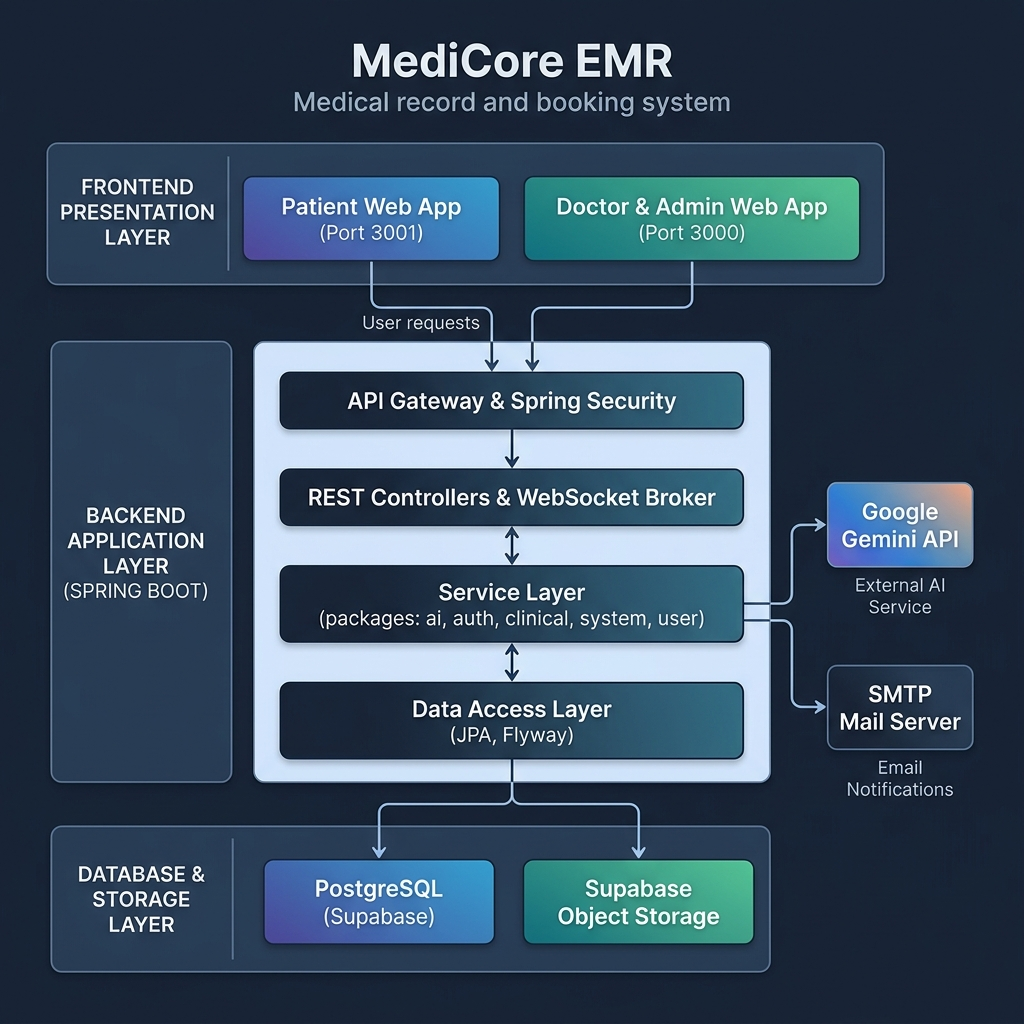
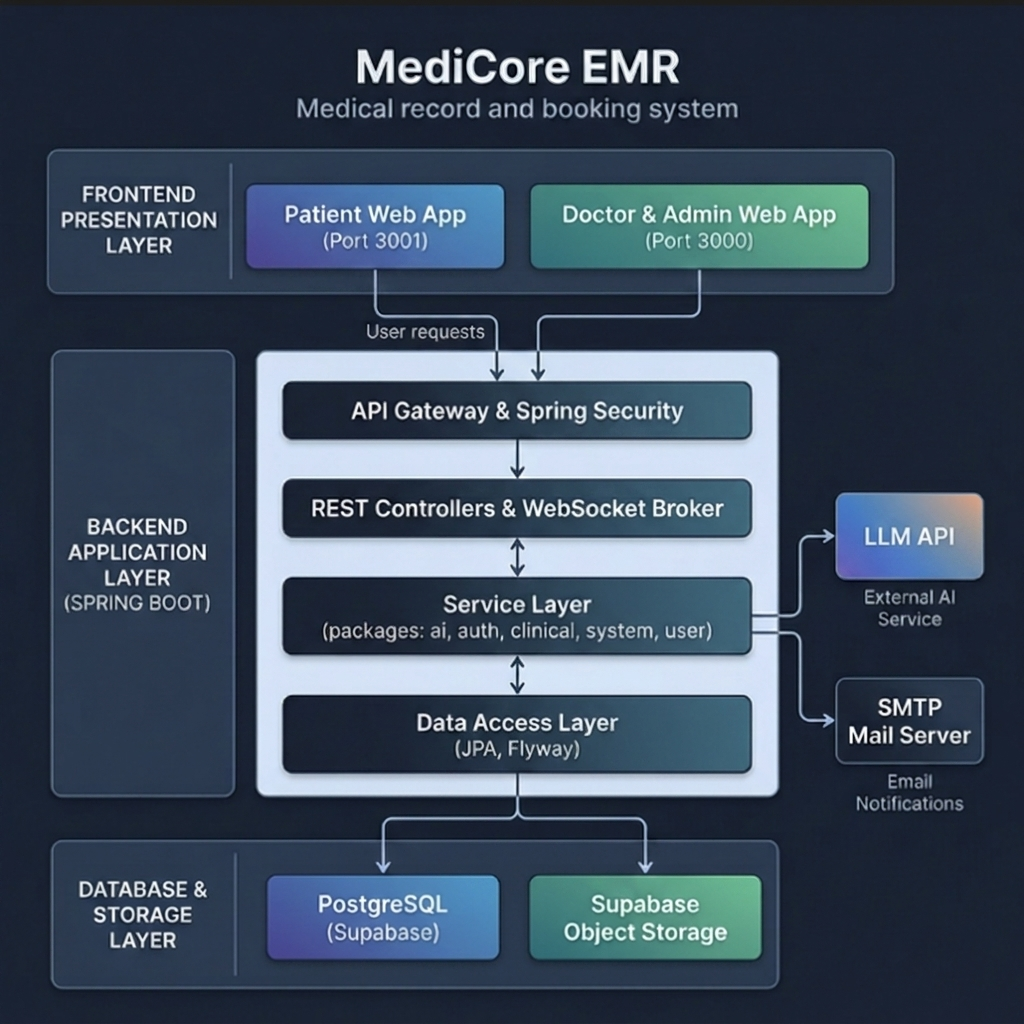
docs: update architecture diagram and refine websocket config

Changed region(s): [[0.0312, 0.0312, 0.9688, 0.9688]]

diff --git a/code/backend/src/main/java/com/medicore/config/websocket/WebSocketConfig.java b/code/backend/src/main/java/com/medicore/config/websocket/WebSocketConfig.java
@@ -1,4 +1,5 @@
 package com.medicore.config.websocket;
+
 import com.medicore.config.security.JwtTokenProvider;
 
 import com.medicore.common.constants.ErrorCodes;
@@ -38,7 +39,7 @@ public class WebSocketConfig implements WebSocketMessageBrokerConfigurer {
 
     @Override
     public void configureMessageBroker(MessageBrokerRegistry config) {
-        // CHỈ ĐỂ topic và queue ở đây thôi bạn nhé
+        // CHỈ ĐỂ topic và queue ở đây
         config.enableSimpleBroker("/topic", "/queue");
 
         config.setApplicationDestinationPrefixes("/app");

diff --git a/docs/architecture-diagram.md b/docs/architecture-diagram.md
@@ -65,7 +65,7 @@ graph TB
 
     %% Các dịch vụ tích hợp bên ngoài
     subgraph ExternalServices ["Dịch vụ bên ngoài"]
-        GeminiAPI["Google Gemini API (LLM)"]
+        LLMAPI["Dịch vụ LLM API (LLM)"]
         SMTPServer["SMTP Server (Gửi Email)"]
     end
 
@@ -99,7 +99,7 @@ graph TB
     UserServices --> AuthServices
     
     %% Service -> Kết nối bên ngoài
-    AIServices --> GeminiAPI
+    AIServices --> LLMAPI
     AuthServices --> SMTPServer
     
     %% Lớp Service -> Repository
@@ -127,7 +127,7 @@ graph TB
     class Patient,Doctor,Admin actorStyle;
     class PatientApp,DocAdminApp frontStyle;
     class CORS,SpringSec,JwtFilter,AuthController,ClinicalController,DoctorController,SpecialtyController,WSController,AuthServices,ClinicalServices,UserServices,AIServices,SystemServices,JPA,JDBC,Flyway backStyle;
-    class GeminiAPI,SMTPServer extStyle;
+    class LLMAPI,SMTPServer extStyle;
     class Postgres,SupabaseStorage dbStyle;
 ```
 
@@ -135,36 +135,11 @@ graph TB
 
 ## 2. Chi tiết các thành phần trong Kiến trúc
 
-### 2.1. Lớp Trình diễn (Frontend Presentation Layer)
-Được viết bằng **Next.js (App Router)** và **TypeScript**, bao gồm hai ứng dụng riêng biệt chạy trên các cổng khác nhau:
-*   **Patient Web App (Port 3001):** Dành riêng cho bệnh nhân. Cho phép đăng ký/đăng nhập, tìm kiếm bác sĩ, chuyên khoa, đặt lịch khám, theo dõi hàng chờ thời gian thực và xem lại lịch sử bệnh án (`/clinical/medical-records/me`).
-*   **Doctor & Admin Dashboard (Port 3000):** Dành cho bác sĩ và quản trị viên.
-    *   *Bác sĩ:* Quản lý hàng chờ bệnh nhân, tiến hành khám bệnh, nhập kết quả bệnh án, kê đơn thuốc và tải xuống file PDF bệnh án.
-    *   *Quản trị viên:* Cấu hình thông tin bác sĩ, chuyên khoa, quản lý tài khoản và giám sát toàn bộ hệ thống.
-
-### 2.2. Lớp Ứng dụng (Backend Application Layer)
-Được xây dựng trên **Spring Boot 3.3.4** và **Java 21**, vận hành theo cấu trúc phân lớp truyền thống:
-1.  **Cổng Bảo mật (Spring Security & JWT):**
-    *   `CORS Filter`: Cấu hình cho phép các nguồn gốc (Origins) xác định truy cập API, hỗ trợ đầy đủ các phương thức HTTP bao gồm `GET`, `POST`, `PUT`, `PATCH`, `DELETE`, `OPTIONS`.
-    *   `JwtAuthenticationFilter`: Chặn và xác thực JWT token từ Header `Authorization` (Bearer token) của request gửi lên.
-    *   `Spring Security`: Áp dụng phân quyền phân vai trò (Role-Based Access Control) chặt chẽ bằng cách sử dụng `@PreAuthorize` hoặc cấu hình các requestMatchers (`ADMIN`, `DOCTOR`, `PATIENT`).
-2.  **Lớp Controller (REST APIs & WebSocket Message Broker):**
-    *   Cung cấp các API RESTful định dạng JSON.
-    *   Tích hợp WebSocket Broker qua giao thức **STOMP (SockJS)** phục vụ cập nhật trạng thái lịch hẹn khám và cập nhật số thứ tự xếp hàng thời gian thực.
-3.  **Lớp Service (Business Logic):**
-    *   `AuthService`: Xử lý đăng ký, đăng nhập, và tạo JWT.
-    *   `Clinical & Medical Record Service`: Logic quản lý lịch sử khám bệnh, ghi nhận kết quả và chẩn đoán.
-    *   `Queue Service`: Quản lý logic hàng chờ gọi số của bệnh nhân tại các phòng khám.
-    *   `MedicalRecordPdfService`: Kết xuất đơn thuốc và hồ sơ bệnh án sang PDF thông qua thư viện OpenPDF/iText.
-    *   `AIService`: Điều phối việc gọi mô hình ngôn ngữ lớn (Gemini API) thông qua WebClient để phân tích chẩn đoán hỗ trợ bác sĩ và lưu vết (`DoctorAiConsultationLog`).
-4.  **Lớp Repository (Data Access Layer):**
-    *   Sử dụng **Spring Data JPA** để ánh xạ thực thể (ORM - Hibernate) giúp thao tác với cơ sở dữ liệu nhanh chóng.
-    *   Dùng **JDBC Template** cho các truy vấn tối ưu hiệu năng hoặc tự động sinh mã định danh có định dạng phức tạp (như `DOC-yyyy-xxxx` hay `PAT-yyyy-xxxx`).
-    *   Tích hợp **Flyway Migration** để tự động chạy các script cập nhật cấu trúc bảng (schema) đồng bộ giữa các môi trường.
-
-### 2.3. Lớp Dữ liệu & Lưu trữ (Data & Storage Layer)
-*   **PostgreSQL (Supabase):** Hệ quản trị cơ sở dữ liệu chính. Lưu trữ toàn bộ dữ liệu quan hệ (Người dùng, Bác sĩ, Chuyên khoa, Lịch hẹn, Bệnh án, Đơn thuốc).
-*   **Supabase Storage:** Dịch vụ Object Storage tích hợp của Supabase, dùng để lưu trữ các tệp tin đính kèm như hình ảnh chụp chiếu (X-Ray, siêu âm) và các file PDF kết quả khám bệnh đã được kết xuất.
+*   **Tầng 1 - Frontend Presentation Layer (Giao diện):** Chúng em tách biệt hoàn toàn thành 2 ứng dụng độc lập: Patient Web App (chạy trên Port 3001) dành cho bệnh nhân và Doctor & Admin Web App (chạy trên Port 3000) phục vụ nội bộ. Sự tách biệt này giúp tối ưu trải nghiệm người dùng và dễ dàng mở rộng (scale) độc lập sau này.
+*   **Tầng 2 - Backend Application Layer (Xử lý logic):** Sử dụng Spring Boot làm nhân cốt lõi để xử lý các User requests. Luồng yêu cầu đi qua API Gateway, được bảo mật chặt chẽ bởi Spring Security và xác thực qua cơ chế mã hóa JWT. Tại lớp điều hướng REST Controllers & WebSocket Broker, chúng em tích hợp WebSocket để đẩy dữ liệu trạng thái hàng chờ thời gian thực đến giao diện bệnh nhân.
+    
+    Tiến vào lớp Service Layer, chúng em chia mã nguồn thành các gói nghiệp vụ phân tách rõ ràng bao gồm: ai, auth, clinical, system và user. Một điểm đặc biệt là hệ thống kết nối tương tác với **LLM API** (đóng vai trò External AI Service) và SMTP Mail Server (phục vụ Email Notifications) thông qua cơ chế bất đồng bộ (Asynchronous), giúp trải nghiệm tư vấn của Trợ lý AI và gửi mail nhắc nhở luôn mượt mà, không gây nghẽn hệ thống. Qua tầng giao tiếp Data Access Layer (JPA, Flyway), dữ liệu sẽ được đồng bộ xuống tầng cuối cùng.
+*   **Tầng thứ 3 - Database & Storage Layer:** Hệ thống tối giản và tối ưu hóa hạ tầng lưu trữ thành hai thành phần cốt lõi: Lưu trữ toàn bộ dữ liệu quan hệ, thông tin người dùng và lịch sử khám bệnh tại PostgreSQL (Supabase), đồng thời quản lý, lưu trữ toàn bộ các tệp tin y tế hay tệp PDF đơn thuốc một cách an toàn, bảo mật thông qua Supabase Object Storage.
 
 ---
 
